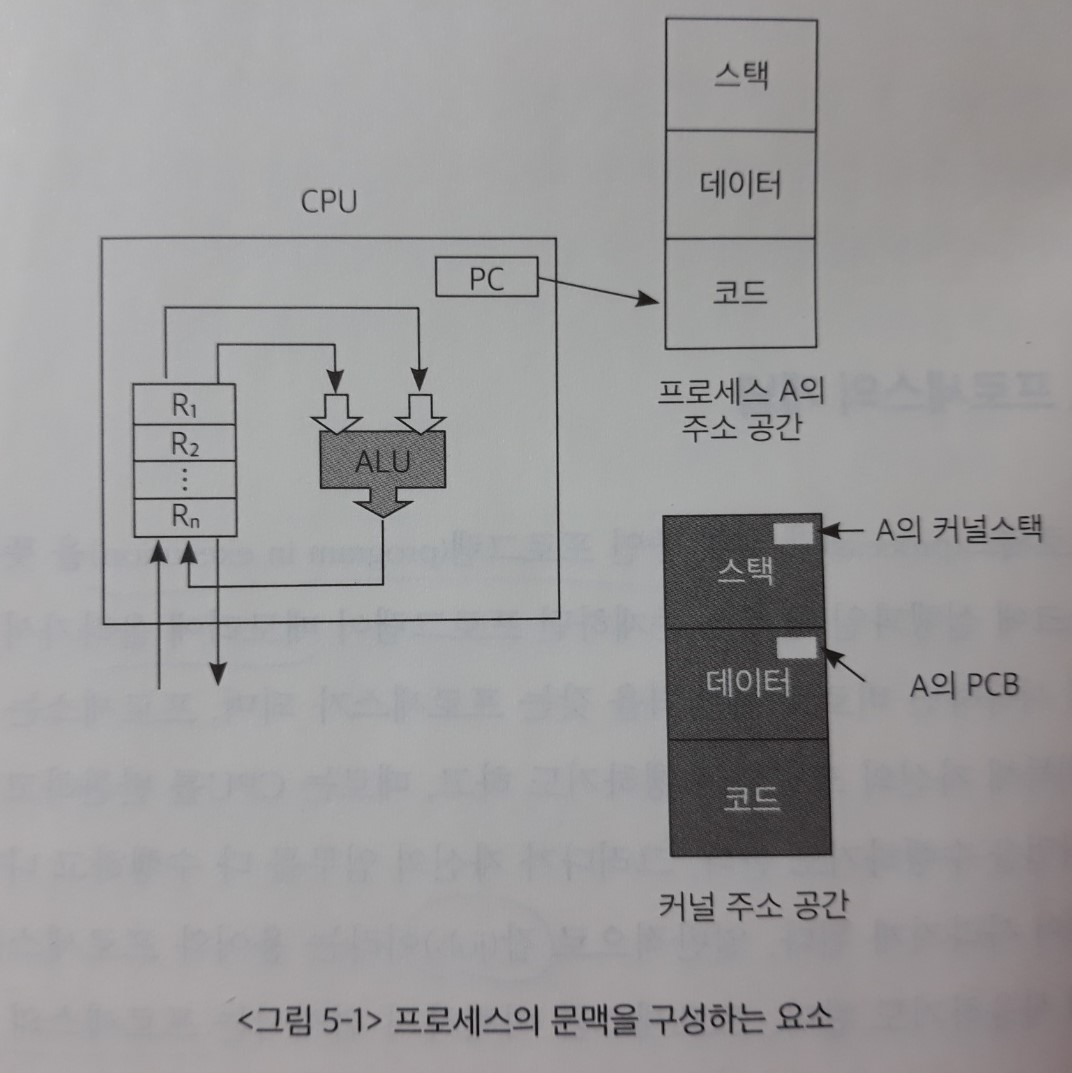
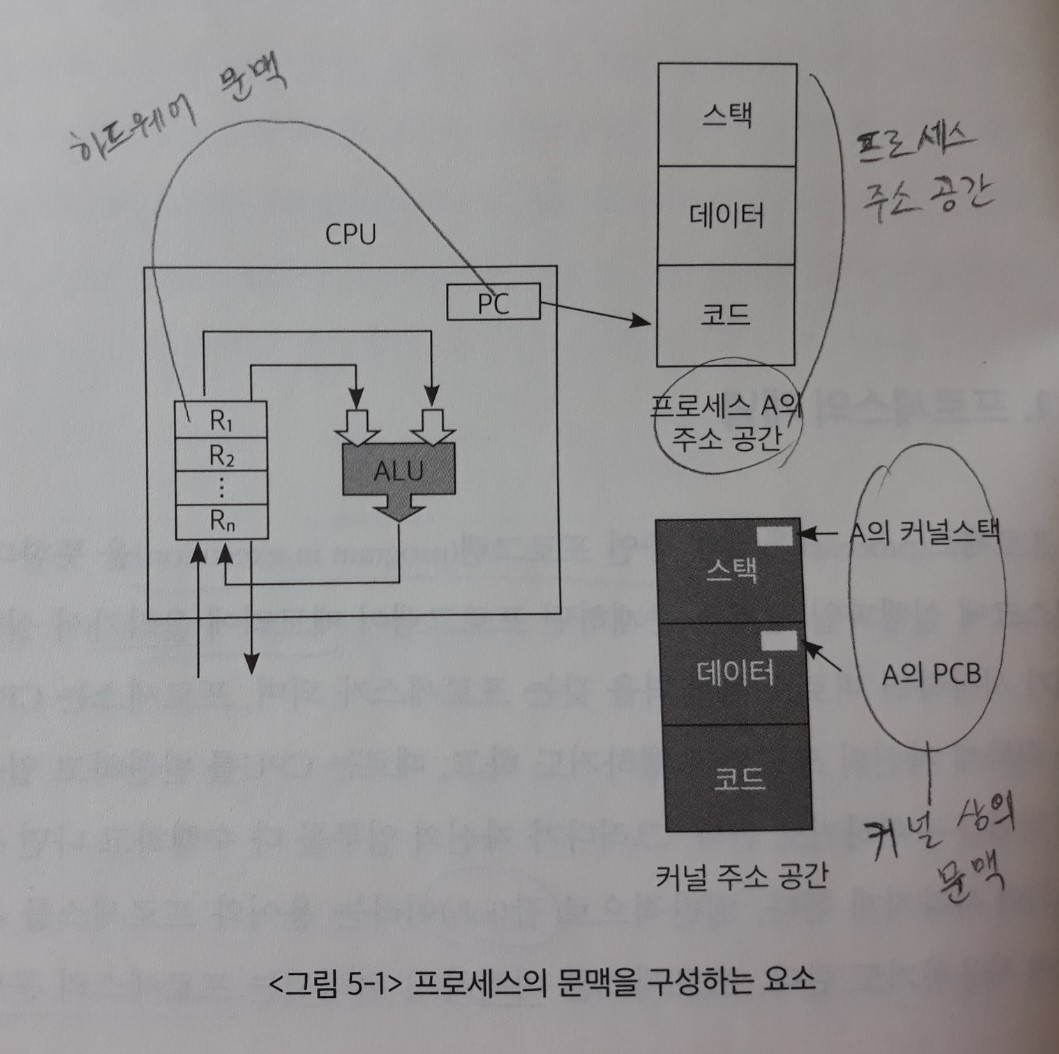
os

diff --git a/CS/운영체제/5장. 프로세스 관리.md b/CS/운영체제/5장. 프로세스 관리.md
@@ -4,6 +4,8 @@
 >
 > 하나의 프로그램이 메모리에 올라가서 프로세스가 되면 CPU를 얻고 빼앗기는 과정을 반복하며 프로그램의 진행이 이루어지고, 최종적으로 자신이 할 일을 끝낸 후 종료하게 된다.
 >
+> 이와 같은 모습은 인간의 일생과 유사한 측면을 가지고 있으며, 프로세스가 운영체제의 지배를 받으며 수행되는 모습은 대단히 계획적이고 효율적인 사회 집단을 연상케 한다.
+>
 > 운영체제가 얼마나 효율적으로 프로세스를 관리하는지 이 장에서 자세히 살펴본다.
 
 ## 1. 프로세스의 개념
@@ -60,11 +62,11 @@
 
 - 시작 상태
 
-  : 프로세스가 시작되어 그 프로세스를 위한 각종 자료구조는 생성되었지만 아직 메모리 흭득을 승인받지 못한 상태
+  : 프로세스가 시작되어 그 프로세스를 위한 각종 **자료구조**는 생성되었지만 아직 메모리 흭득을 승인받지 못한 상태
 
 - 완료 상태
 
-  : 프로세스가 종료되었으나 운영체제가 그 프로세스와 관련된 자료구조를 완전히 정리하지 못한 상태
+  : 프로세스가 종료되었으나 운영체제가 그 프로세스와 관련된 **자료구조**를 완전히 정리하지 못한 상태
 
 **[문맥 교환(context switch)]**
 
@@ -76,12 +78,67 @@
 
    : `실행` 상태에서 CPU의 제어권을 가지고 프로세스가 실행되는 중에 **타이머 인터럽트**가 발생하면 CPU의 제어권은 운영체제로 이양된다.
 
-   그러면 운영체제는 타이머 인터럽트 처리루틴으로 가서 수행 중이던 프로세스의 문맥을 저장하고 `준비` 상태에 있는 프로세스 중에서 새롭게 CPU의 제어권을 부여할 프로세스를 선택한다.
+   그러면 운영체제는 타이머 인터럽트 처리루틴으로 가서 수행 중이던 프로세스의 문맥을 저장하고 `준비` 상태에 있는 프로세스 중에서 새롭게 CPU의 제어권을 부여할 프로세스를 선택한다. **= CPU 디스패치**
 
    그러면 원래 수행 중이던 프로세스는 `준비` 상태로 변하고 새롭게 CPU를 할당받은 프로세스가 `실행` 상태가 된다.
 
 2. 실행 상태에 있던 프로세스가 (입출력 요청 등으로) `봉쇄` 상태로 바뀌는 경우
 
-   : 
+   : 디스크 입출력 명령이 포함된 경우, 입출력이 완료될 때까지 CPU를 반환한 다음 디스크 입출력 서비스를 기다리며 `봉쇄` 상태로 바뀌게 된다.
+
+   그러면 **CPU 스케줄러**가 CPU 디스패치를 진행한다.
+
+   CPU는 다른 프로세스를 실행하고 있다가 입출력이 완료되어 디스크 컨트롤러가 인터럽트를 발생시킨 것을 확인하면 그에 대응하는 루틴을 수행한다.
+
+   이 루틴이 진행되는 동안 CPU에서 수행되던 프로세스의 상태는 `사용자모드 실행 상태`에서 `커널모드 실행 상태`로 바뀐다. 비록 인터럽트 처리루틴이 직전에 실행 중이던 프로세스와는 무관한 업무를 담고 있지만, ***편의상* 인터럽트 처리를 직전 프로세스의 문맥에서 실행된 것으로 간주한다.**
+
+   > 다시 말해 프로세스가 실행되던 중에 인터럽트가 발생하면, 인터럽트가 발생한 원인과 관계 없이 인터럽트를 당한 프로세스가 사용자모드에서 실행되다가 커널모드로 진입한 것으로 간주하게 된다는 것이다.
+   
+   디스크 컨트롤러가 발생시킨 인터럽트는 입출력이 완료된 프로세스의 상태를 `봉쇄` 상태에서 `준비` 상태로 바꾼 후 장치의 **로컬버퍼에 있는 내용을 메모리로 이동**시키는 업무를 수행한다.
+   
+   이렇게 인터럽트 처리가 끝나면 인터럽트 처리루틴 이전에 수행되던 프로세스의 코드가 실행되거나, 일반적인 경우는 아니지만 입출력이 완료된 프로세스가 더 우선순위가 높은 경우 **문맥교환**을 통해 CPU 제어권을 이양시킬 수도 있다.
 
 문맥 교환이 일어날 때, `준비` 상태에 있는 프로세스들 중에서 CPU를 할당받을 프로세스를 선택한 후 CPU의 제어권을 넘겨받는 과정을 **CPU 디스패치(dispatch)**라고 한다.
+
+ *dispatch = 빠르게 발송하다
+
+## 3. 프로세스 제어블록
+
+> 프로세스 제어블록(Process Control Block: PCB)이란 운영체제가 시스템 내의 프로세스들을 관리하기 위해 **프로세스마다 유지하는 정보들을 담는 `커널 내의 자료구조`**를 뜻한다.
+
+PCB는 다음과 같은 요소들로 구성되어 있다.
+
+- 프로세스의 상태(process state)
+
+  : CPU를 할당해도 되는지 여부를 결정하기 위해 필요
+
+- 프로그램 카운터(program counter)의 값
+
+  : 다음에 수행할 명령의 위치를 가리킴
+
+- CPU 레지스터(CPU register)의 값
+
+  : CPU 연산을 위해 현 시점에 레지스터에 어떤 값을 저장하고 있는지를 나타냄
+
+- CPU 스케줄링 정보(CPU scheduling information)
+
+  : 프로세스의 CPU 스케줄링을 위해 필요한 정보
+
+- 메모리 관리 정보(memory management information)
+
+  : 프로세스의 메모리 할당을 위해 필요한 정보
+
+- 자원 사용 정보(accounting information)
+
+  : 사용자에게 자원 사용 요금을 계산해 청구하는 등의 용도로 사용됨
+
+- 입출력 상태 정보(I/O status information)
+
+  : 프로세스가 오픈한 파일 정보 등 프로세스의 입출력 관련 상태 정보를 나타냄
+
+<img src="images/05_PCB.jpg" style="zoom:50%;" />
+
+## 4. 문맥교환
+
+> 문맥교환(context switch)이란 하나의 사용자 프로세스로부터 다른 사용자 프로세스로 CPU의 제어권이 이양되는 과정을 뜻한다.
+

diff --git a/CS/운영체제/1장. 컴퓨터 및 정보기술의 역사.md b/CS/운영체제/1장. 컴퓨터 및 정보기술의 역사.md
@@ -4,6 +4,10 @@
 
 > 1937년 수학자 앨런 튜링이 개발한 이론적 컴퓨터인 **튜링머신**이 현대 컴퓨터가 풀 수 있는 모든 문제를 풀 수 있다는 사실이 증명되었다.
 
+컴퓨터 분야의 학문은 컴퓨터 자체를 효율적으로 운영하기 위한 학문, 그리고 복잡한 문제를 컴퓨터를 활용해서 효율적으로 풀 수 있는 방법을 제공하기 위한 학문으로 나뉜다.
+
+하지만 두 분야 모두 사람이 다루는 문제보다 **복잡도(complexity)**가 매우 높은 문제를 다루고 있어 방법론적으로는 크게 다르지 않다.
+
 
 
 # 1장. 컴퓨터 및 정보기술의 역사
